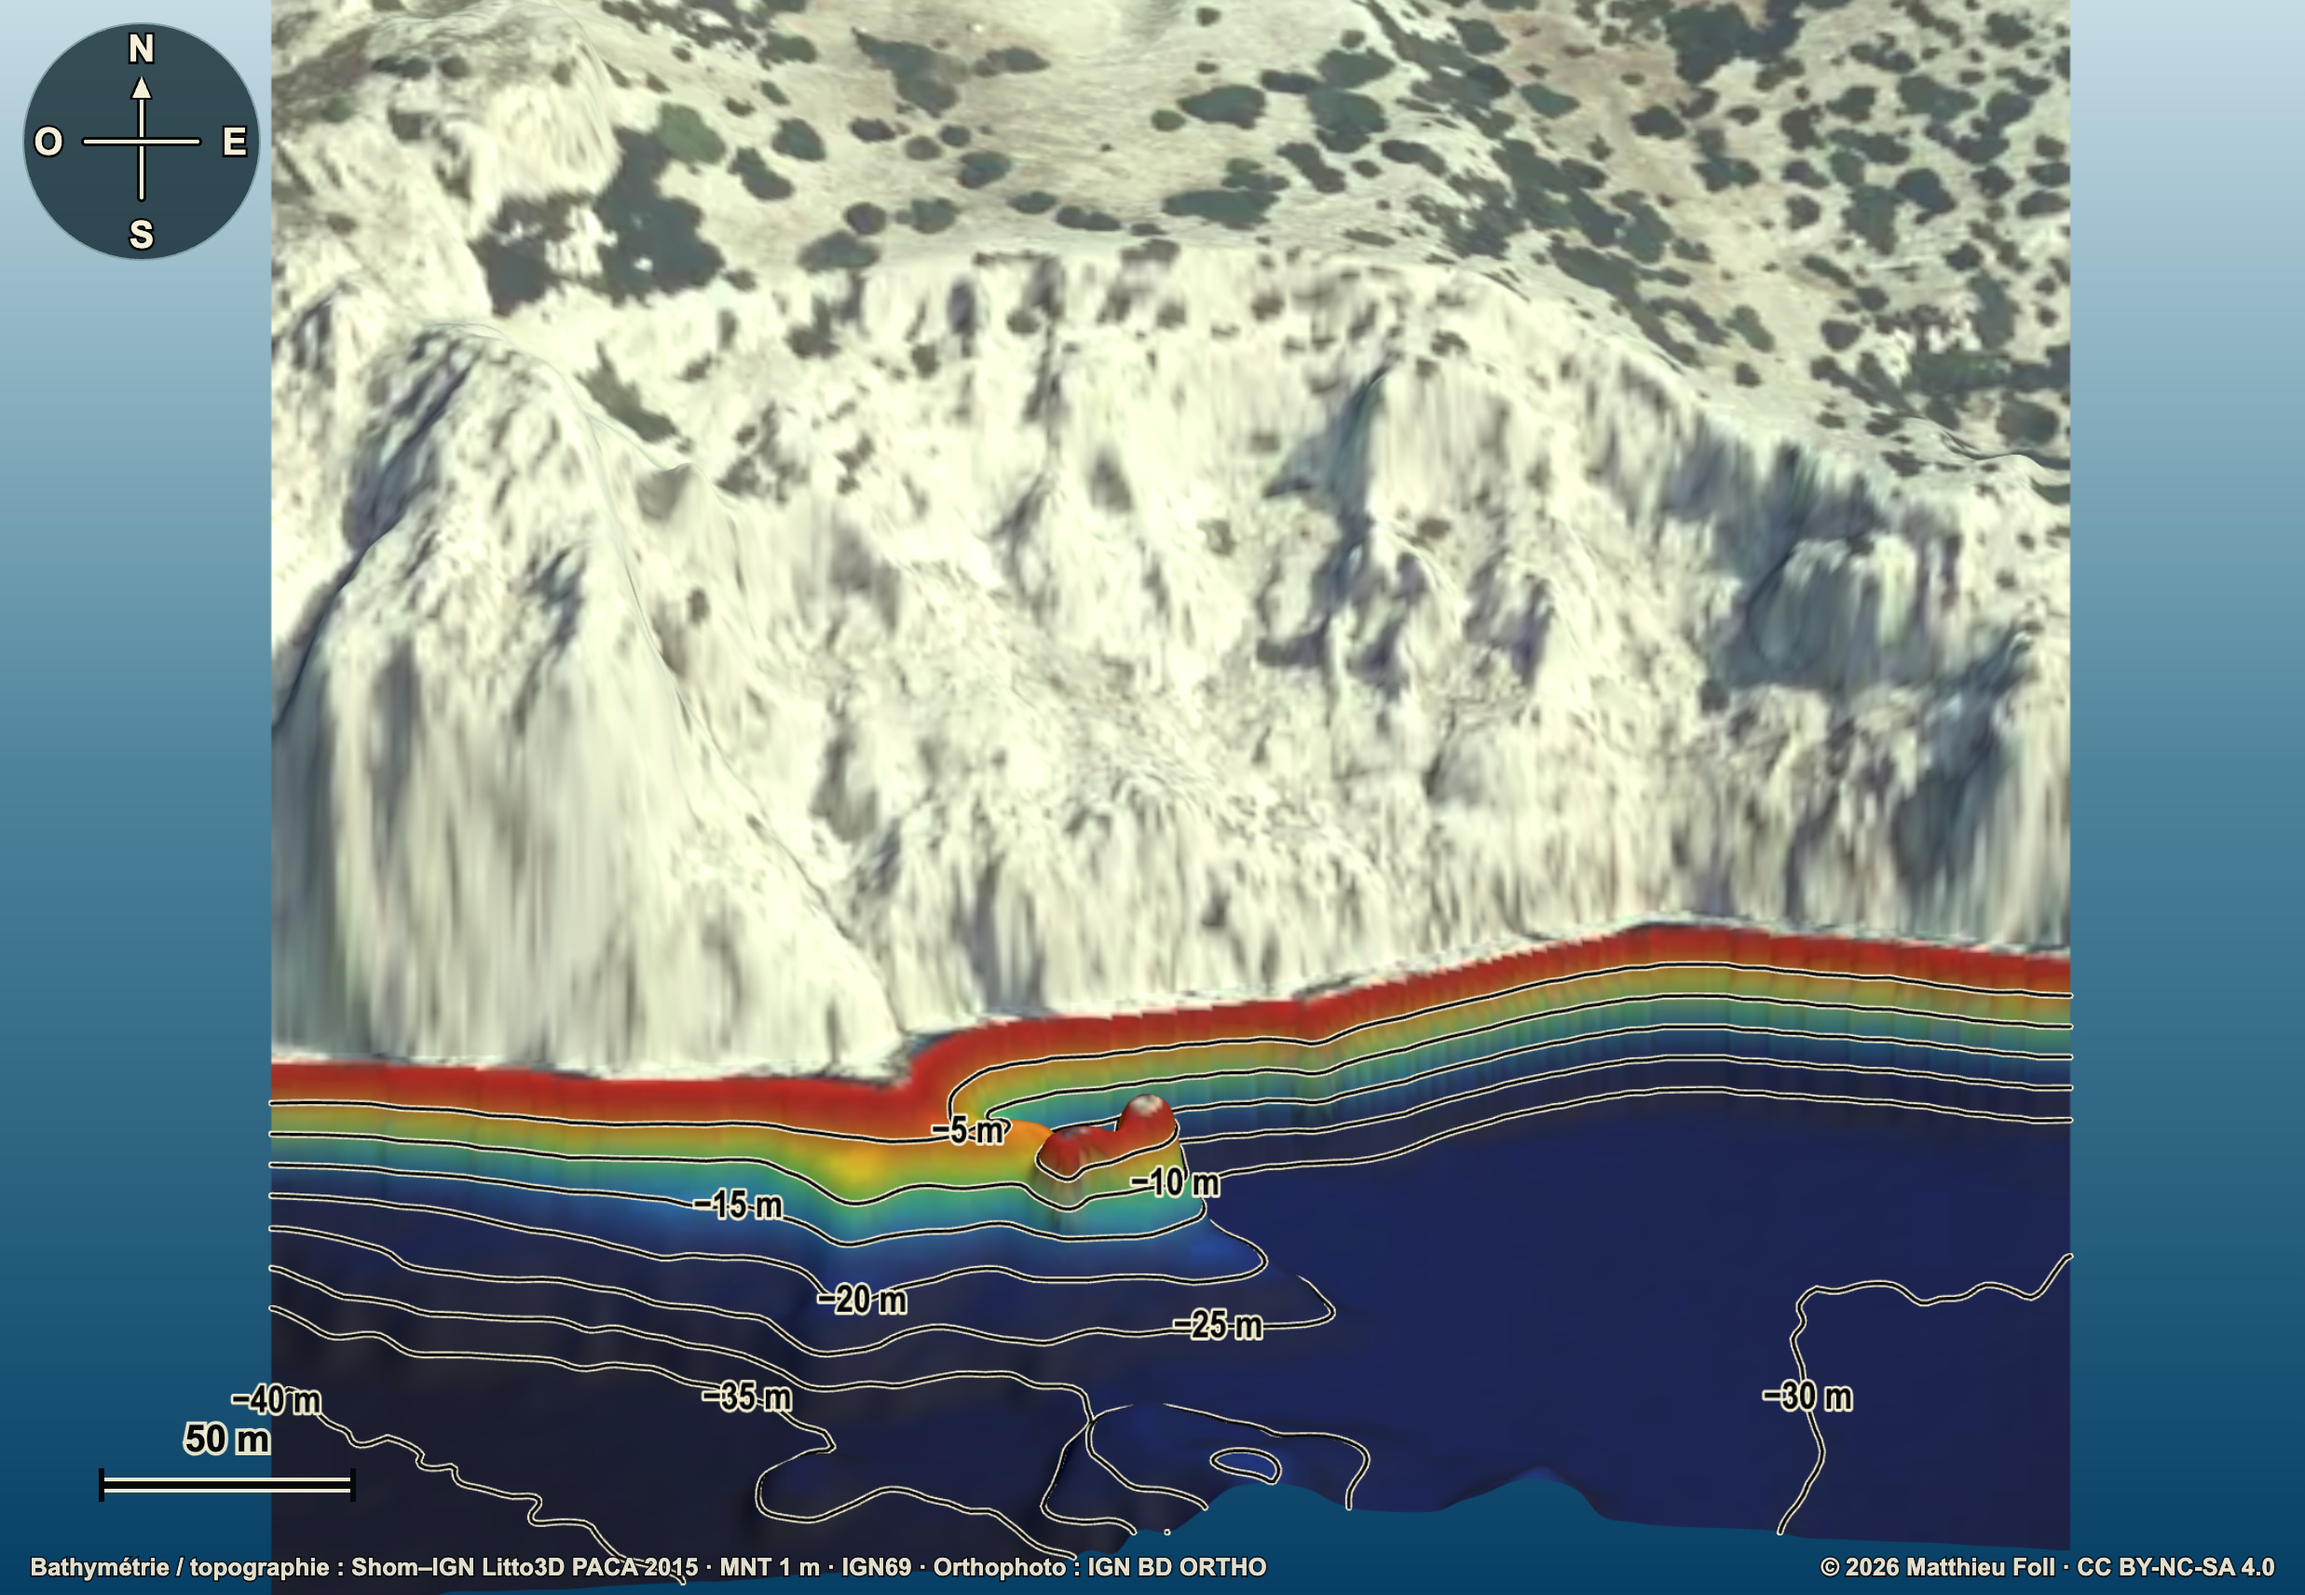
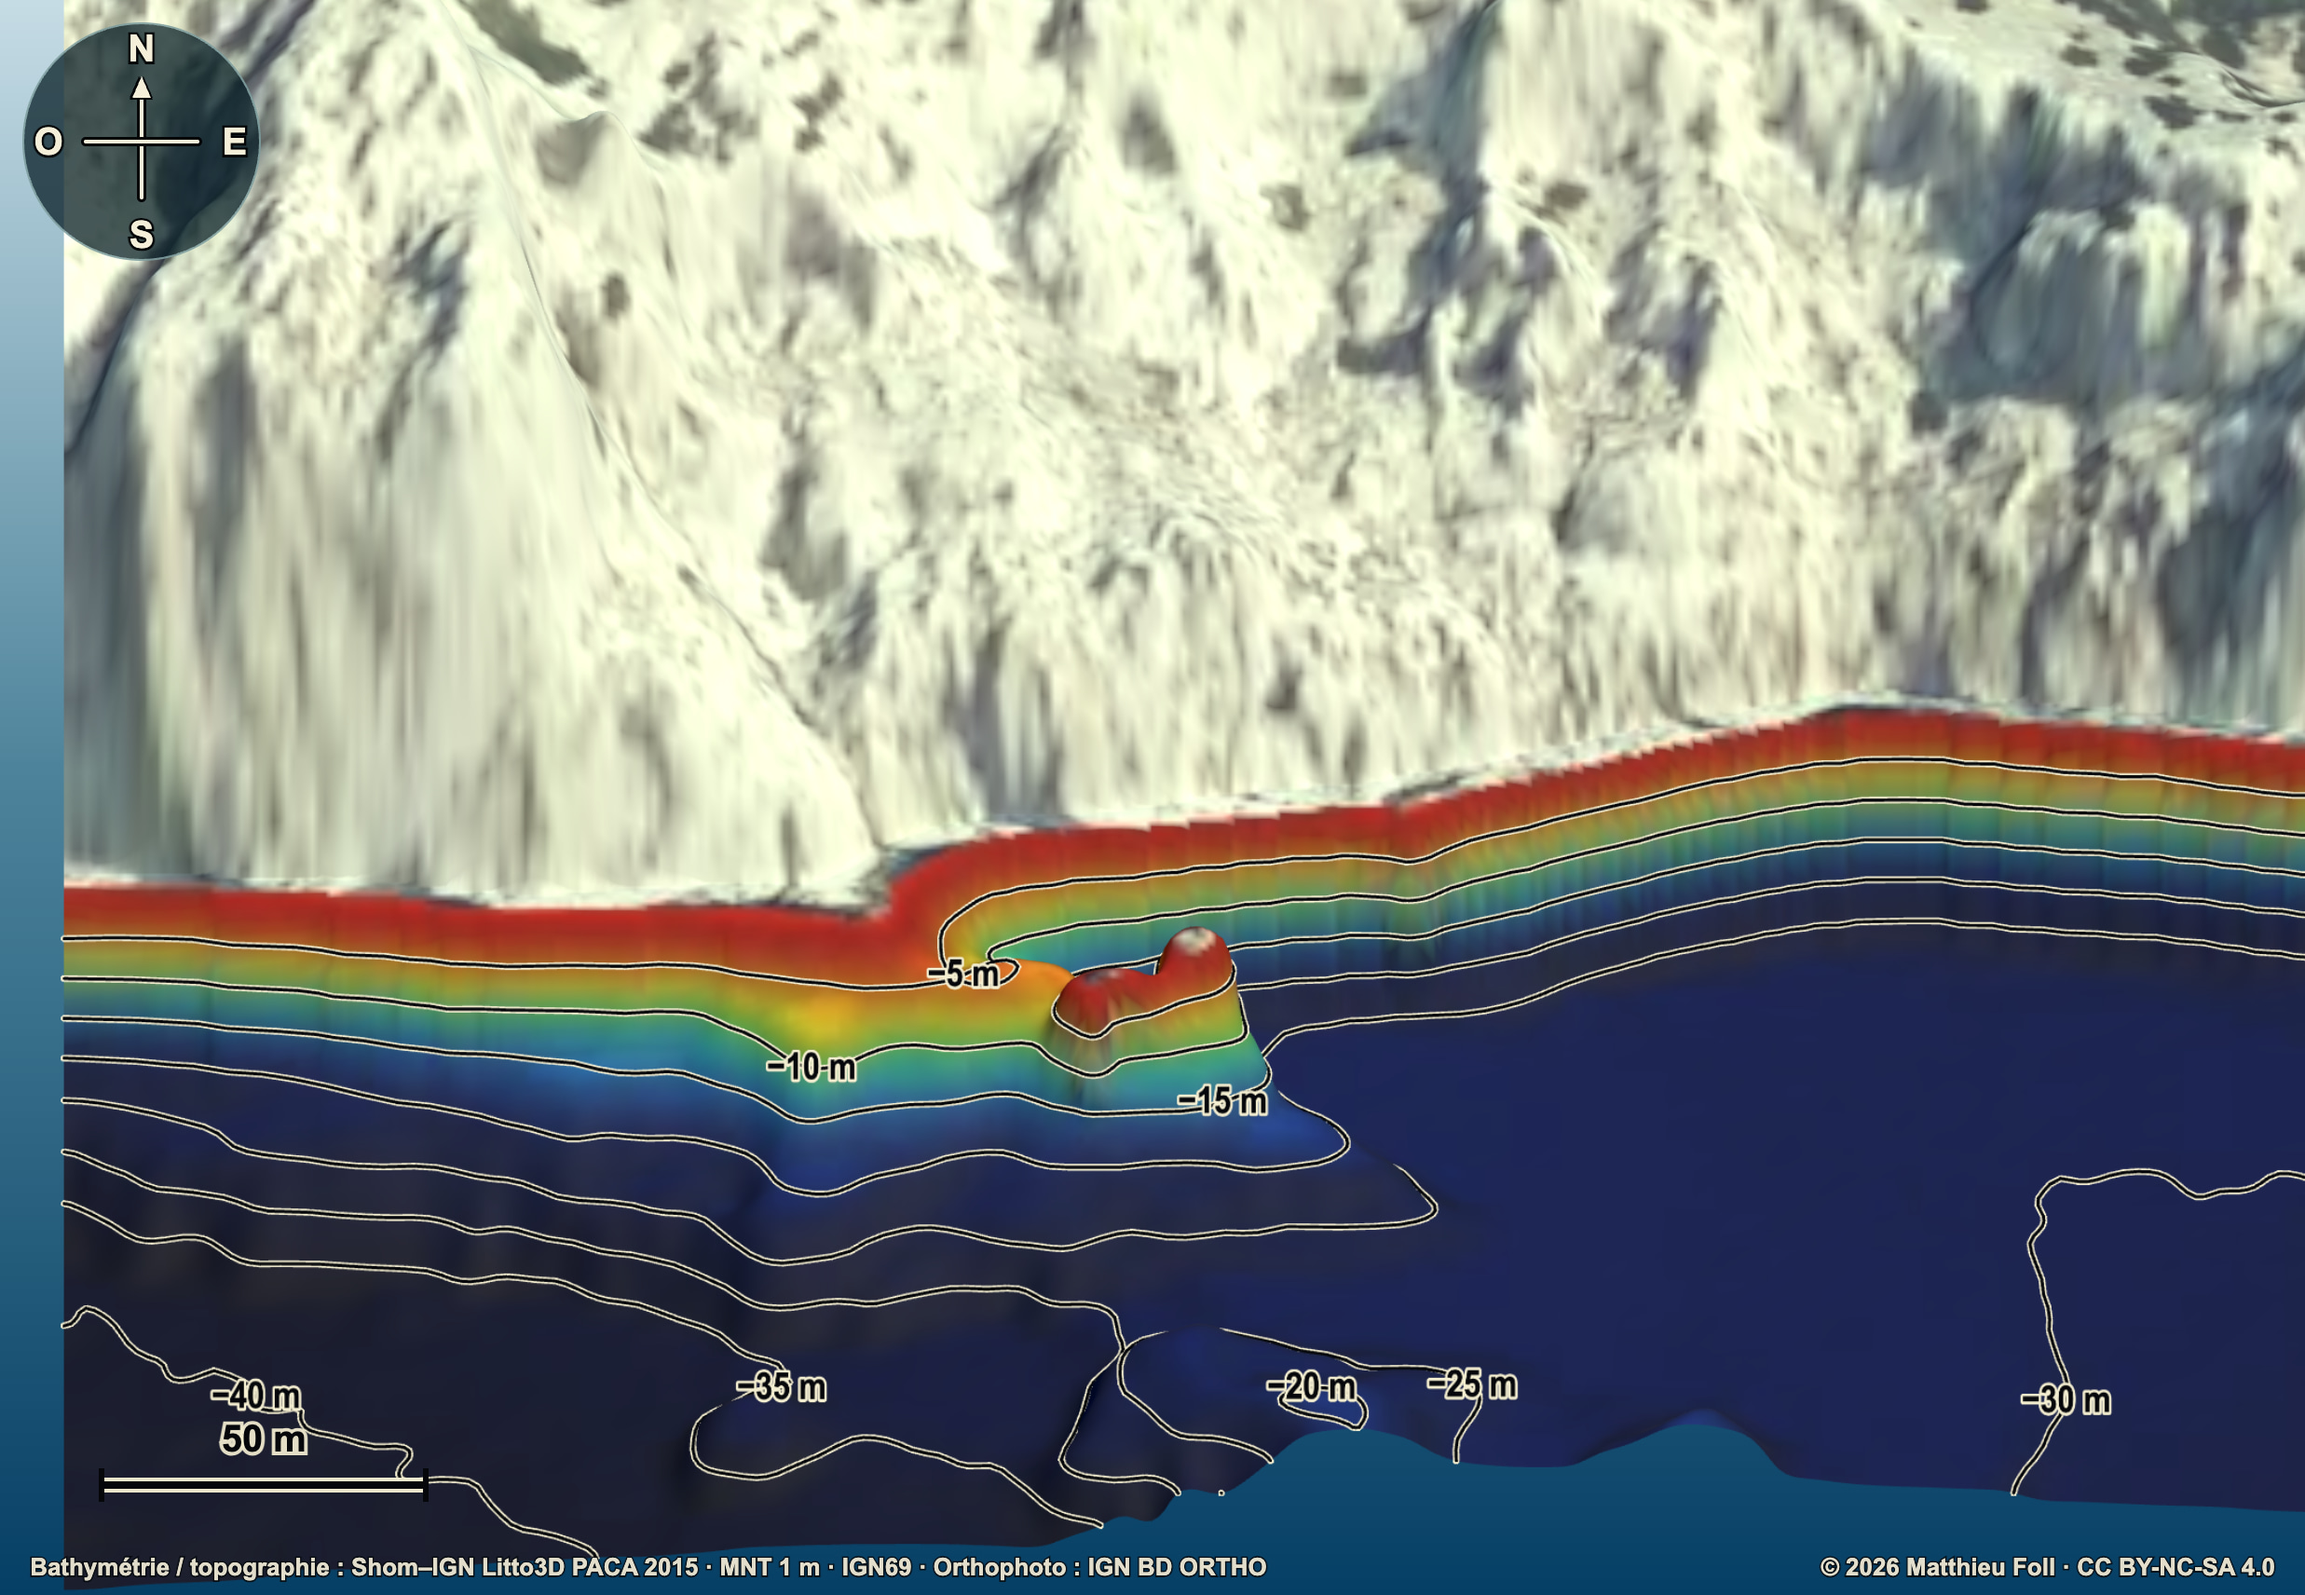
Regenerate Imperial du Milieu Riou calibration outputs

diff --git a/regions/bouches-du-rhone/outputs/qa/imperial-du-milieu-riou.md b/regions/bouches-du-rhone/outputs/qa/imperial-du-milieu-riou.md
@@ -1,12 +1,12 @@
 # QA site-local v1.5 — Impérial du Milieu, Riou
 
-Date de contrôle : 2026-08-14
+Date de contrôle : 2026-08-15
 Slug : `imperial-du-milieu-riou`
 Région : `bouches-du-rhone`
 
 ## Périmètre et état de publication
 
-Ce paquet concerne uniquement `Impérial du Milieu – Riou`. La configuration conserve `web.published=false`. Aucun inventaire régional, manifeste régional ou global, sitemap, composant Web partagé, release, push ou déploiement n'a été modifié.
+Ce paquet concerne uniquement `Impérial du Milieu – Riou`. La configuration conserve `web.published=false`. Le manifeste régional de planning ne porte qu'une correction de layout pour ce slug; aucun inventaire, manifeste terrain publié ou global, route, sitemap, composant Web partagé, release, push ou déploiement n'a été modifié.
 
 La QA Web a utilisé une copie locale éphémère contenant uniquement ce site et ses actifs. La route réelle du dépôt n'a pas été rendue disponible par modification du manifeste publié.
 
@@ -52,31 +52,35 @@ Une lacune offshore de 4.2 % de l'emprise 2D ne contient ni bathymétrie ni alti
 
 Le gestionnaire prévu `tools/camera-calibration/manage.py` a réactivé l'interface uniquement dans la copie de développement locale, puis l'a retirée du worktree (`camera-calibration:check-release` doit rester désactivé pour le produit livré). La caméra a été déplacée et zoomée, le cadrage a été enregistré, puis exporté dans une collection JSON unique contenant exactement le slug demandé.
 
-Paramètres exportés et reportés dans la configuration : `zoom=0.65`, `orbitAzimuthDeg=0`, `cameraElevationDeg=33.42`, `panRightM=3.56`, `panUpM=10.36`, avec `cameraPositionM=[-3.5627,575.0452,893.7982]` et `cameraTargetM=[-3.5627,-5.7548,13.7982]`.
+Paramètres exportés et reportés dans la configuration : `zoom=0.84`, `orbitAzimuthDeg=0`, `cameraElevationDeg=33.42`, `panRightM=11.33`, `panUpM=43.2`, offsets `0/0`, avec `cameraPositionM=[-11.3258,547.6336,911.8899]` et `cameraTargetM=[-11.3258,-33.1664,31.8899]`.
+
[1 lines of base64/hex data omitted]
 
 Le bouton utilisé est l'export groupé `Télécharger toutes les calibrations`; aucun téléchargement JSON par site n'a été ajouté. L'interface de calibration n'est pas présente sur la route locale normale et n'est pas présente dans le viewer publié.
 
 ## Paquet produit
 
 - Deux plans 2D canoniques : `2474 × 1712` px.
-- Deux vues 3D statiques canoniques : `2474 × 1712` px, recopiées depuis les captures de la pose initiale validée.
+- Deux vues 3D statiques canoniques : `2474 × 1712` px, régénérées depuis les captures de la nouvelle pose initiale validée.
 - Deux planches canoniques : `5400 × 4600` px.
 - Locator site-local : `1864 × 1440` px, avec le marqueur exact.
 - Terrain interactif canonique et Web : grille `360 × 400`, deux textures, hauteur 16 bits, masque de validité, masque d'isobathes et vecteurs; export validé, masque de validité final 100 %, payload vecteur `53,112` octets.
-- Dérivés Web : 2D topographique/orthophoto, captures 3D topographique/orthophoto en `960`, `1600` et `2474` px, variantes mobiles `960` px, téléchargements JPEG pleine taille et aperçus de planches `1800 × 1533` px.
+- Les sept artefacts canoniques du terrain (`terrain.json`, hauteurs, masques, vecteurs et deux textures) sont bit à bit identiques à l'emprise précédente : la calibration ne modifie pas la géométrie.
+- Les dérivés Web pending ont été générés et QA-ables dans un overlay local réversible uniquement, puis retirés. Aucun actif pending n'est conservé sous `apps/web/public`; aucun manifeste terrain publié, route ou sitemap n'a été modifié.
 
 Méthode : isobathes vectorielles méditerranéennes lissées et suréchantillonnées, verrouillées aux profondeurs canoniques de 5 m, avec séparation stricte des zones NoData et conservation du relief naturel.
 
 ## QA effectuée
 
-- Inspection pleine résolution des plans, des deux vues 3D statiques, des deux planches, du locator, des deux textures interactives et de tous les dérivés Web représentatifs desktop/mobile.
-- Route française locale : identité, absence d'écran blanc, absence d'overlay framework, terrain prêt, bascule `Vue aérienne` → `Topographie` vérifiée par changement d'état.
-- Route anglaise locale : titre et contenus anglais vérifiés.
-- Desktop et mobile vérifiés pour les routes FR et EN; le panneau de calibration reste absent sur les routes normales.
-- Vérification de cohérence des captures : corrélations `0.9985 / 0.9993` orthophoto desktop, `0.9946` orthophoto mobile, `0.9980 / 0.9990` topographique desktop, `0.9894` topographique mobile; toutes les comparaisons passent.
+- Inspection pleine résolution des plans 2D inchangés, des deux vues 3D statiques, des deux planches, du locator et du raster régional; nord, échelle, cartouches, traits, sources et licences restent visibles.
+- Overlay local FR à `1280 × 720` et `390 × 844` : terrain prêt, bascule `Vue aérienne` → `Topographie`, réinitialisation de vue, thème clair/sombre et navigation clavier vérifiés sans erreur console.
+- Route anglaise locale : titre, contenus anglais, thèmes clair/sombre, dropdown mobile et overflow `390` px vérifiés. La route propre régionale garde six repères, cinq liens publiés; le repère cible pending est un point inertiel sans lien, et la route pending cible répond `404` hors overlay.
+- Le cartouche régional corrigé est maintenant `side=left`, `shift_y_rem=-9.6`, `label_offset_rem=7.2`, angle `-10°`. Le calcul géométrique déterministe donne une marge minimale du cartouche cible de `11.39` px à `390 × 844` et `19.22` px à `1280 × 720` avec les cartouches, points, échelle et nord; les marges au cadre restent positives. Le connecteur est recalculé vers le rectangle et son extrémité arrive à environ `1.08` px de son bord aux deux viewports. Les six repères et le raster régional ont été inspectés pleine résolution.
+- Cohérence capture/dérivé Web, réduction `160 × 111` : orthophoto desktop `0.999463`, topographique desktop `0.998787`, orthophoto mobile `0.995115`, topographique mobile `0.983938`. Un second chargement stabilisé de la topographie mobile est identique au premier (`corrélation=1.000000`, MAE `0`); comparé au WebP généré par le même pipeline, il reste à `0.983938` (MAE `0.012955`). Le résidu sous le seuil historique `0.985` est donc stable et attribué à la réduction/encodage WebP, pas à une instabilité de pose.
 
 ## Défauts et incertitudes conservés
 
 - La lacune offshore de 4.2 % est explicitement conservée; elle n'est pas interpolée dans le terrain.
 - Le drapé orthophoto 3D est plus doux et étiré que la vue aérienne 2D, conformément à la projection du terrain interactif; il reste aligné avec les isobathes et la côte.
 - Les trois coordonnées officielles de mouillage sont un groupe de contexte; le point principal retenu ne doit pas être interprété comme une zone d'accès ou de sécurité.
+- Le seuil métrique WebP mobile reste un résidu QA à surveiller avant une éventuelle publication. La route propre laisse le pending inertiel sans cartouche ni lien, conformément au contrat de publication; aucun actif pending n'est conservé dans `apps/web/public`.
